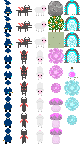
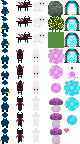
edit atlas, flipX coordinates

diff --git a/src/animations/frame.ts b/src/animations/frame.ts
@@ -17,7 +17,7 @@ export const getFrame = (
 ): Frame => {
   return {
     viewBox: flipX
-      ? `${-(col + 1) * ATLAS_CELL_SIZE} ${
+      ? `${(-(col + 1) * ATLAS_CELL_SIZE)+ATLAS_CELL_SIZE-width} ${
           row * ATLAS_CELL_SIZE
         } ${width} ${height}`
       : `${col * ATLAS_CELL_SIZE} ${row * ATLAS_CELL_SIZE} ${width} ${height}`,
